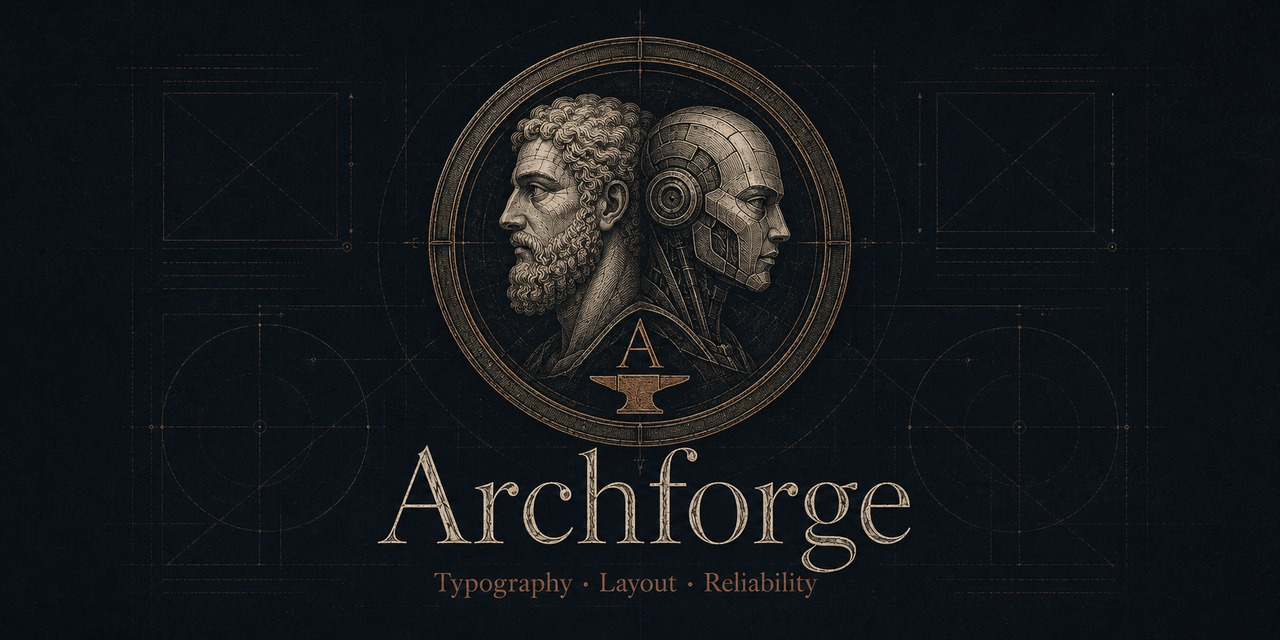
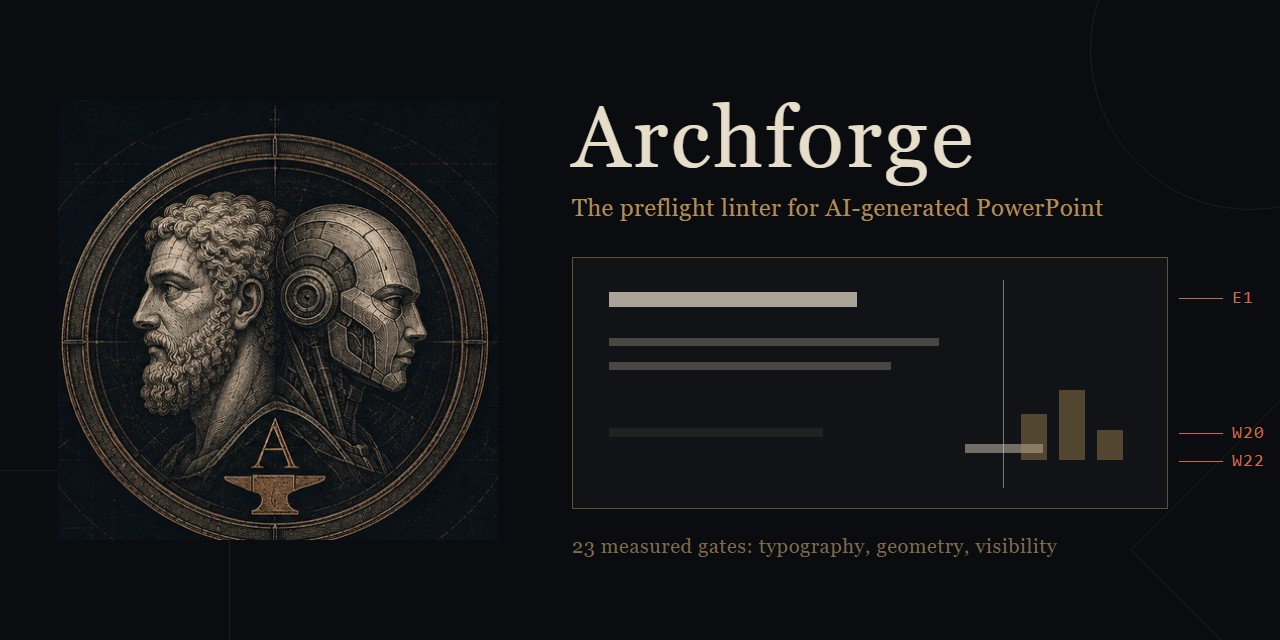
Give the hero art the 0.11 story, and the comparison shot a dark variant
The social-preview banner keeps the engraved emblem but the right half now shows what the tool does: a wireframed slide with a ghost line, a rule impaling a caption, and E1/W20/W22 markers in the report's own visual language, captioned with the measured-gates count. The before/after comparison gets a dark twin (card renders untouched, everything outside the slide cards inverted, colored verdict labels preserved) served through a prefers-color-scheme picture tag in both READMEs.

diff --git a/README.ko.md b/README.ko.md
@@ -24,7 +24,10 @@
 
 파워포인트는 이 두 덱을 아무 경고 없이 엽니다. 하나는 망가져 있습니다:
 
-![before / after](docs/assets/before-after-ko.png)
+<picture>
+  <source media="(prefers-color-scheme: dark)" srcset="docs/assets/before-after-ko-dark.png">
+  <img src="docs/assets/before-after-ko.png" alt="before / after: 왼쪽은 차단, 오른쪽은 통과">
+</picture>
 
 코드 리뷰로는 이걸 볼 수 없습니다. 결함이 폰트 슬롯, autofit 배율, 좌표처럼 렌더
 시점에야 실체가 되는 곳에 살기 때문입니다. Archforge는 `.pptx` 내부(XML, 폰트 해석

diff --git a/README.md b/README.md
@@ -28,7 +28,10 @@ gated the same way; every other gate is script-independent.
 
 PowerPoint opens both of these decks without a single warning. One of them is broken:
 
-![before / after](docs/assets/before-after-en.png)
+<picture>
+  <source media="(prefers-color-scheme: dark)" srcset="docs/assets/before-after-en-dark.png">
+  <img src="docs/assets/before-after-en.png" alt="before / after: broken.pptx flagged, fixed.pptx clean">
+</picture>
 
 Code review cannot see any of it, because the defects live in font slots, autofit
 scales, and coordinates that only materialize at render time. Archforge reads the
